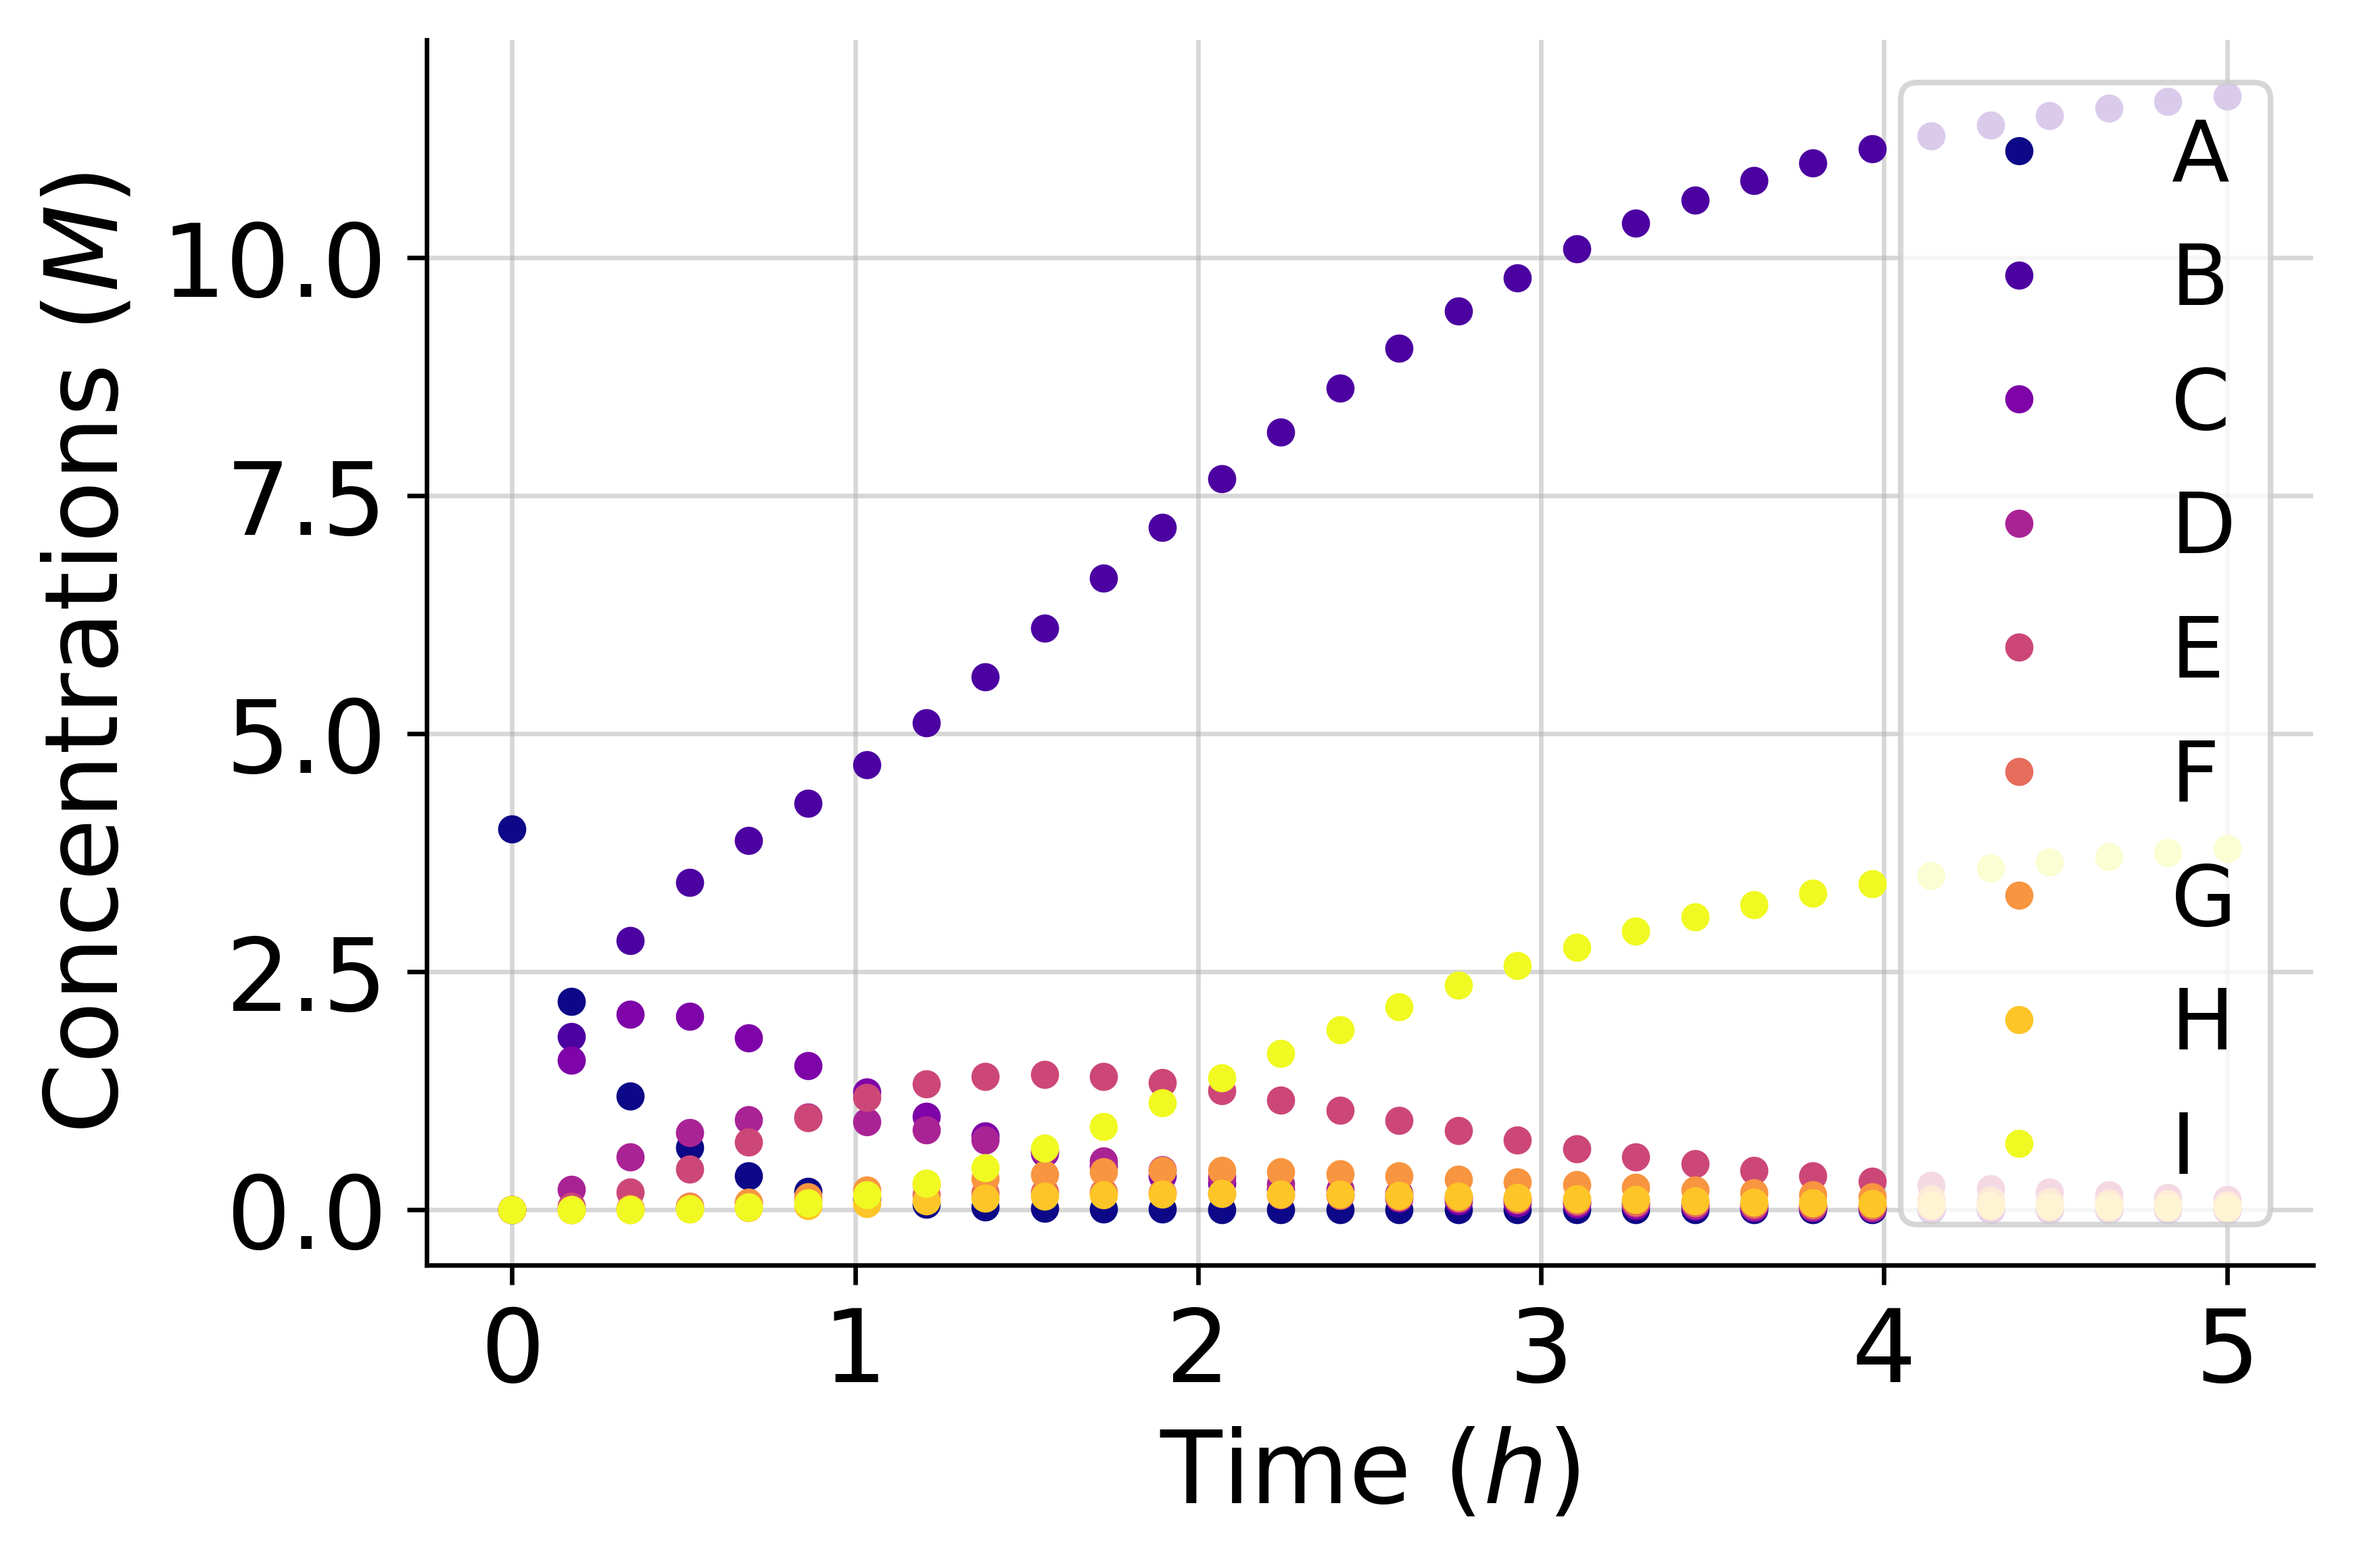
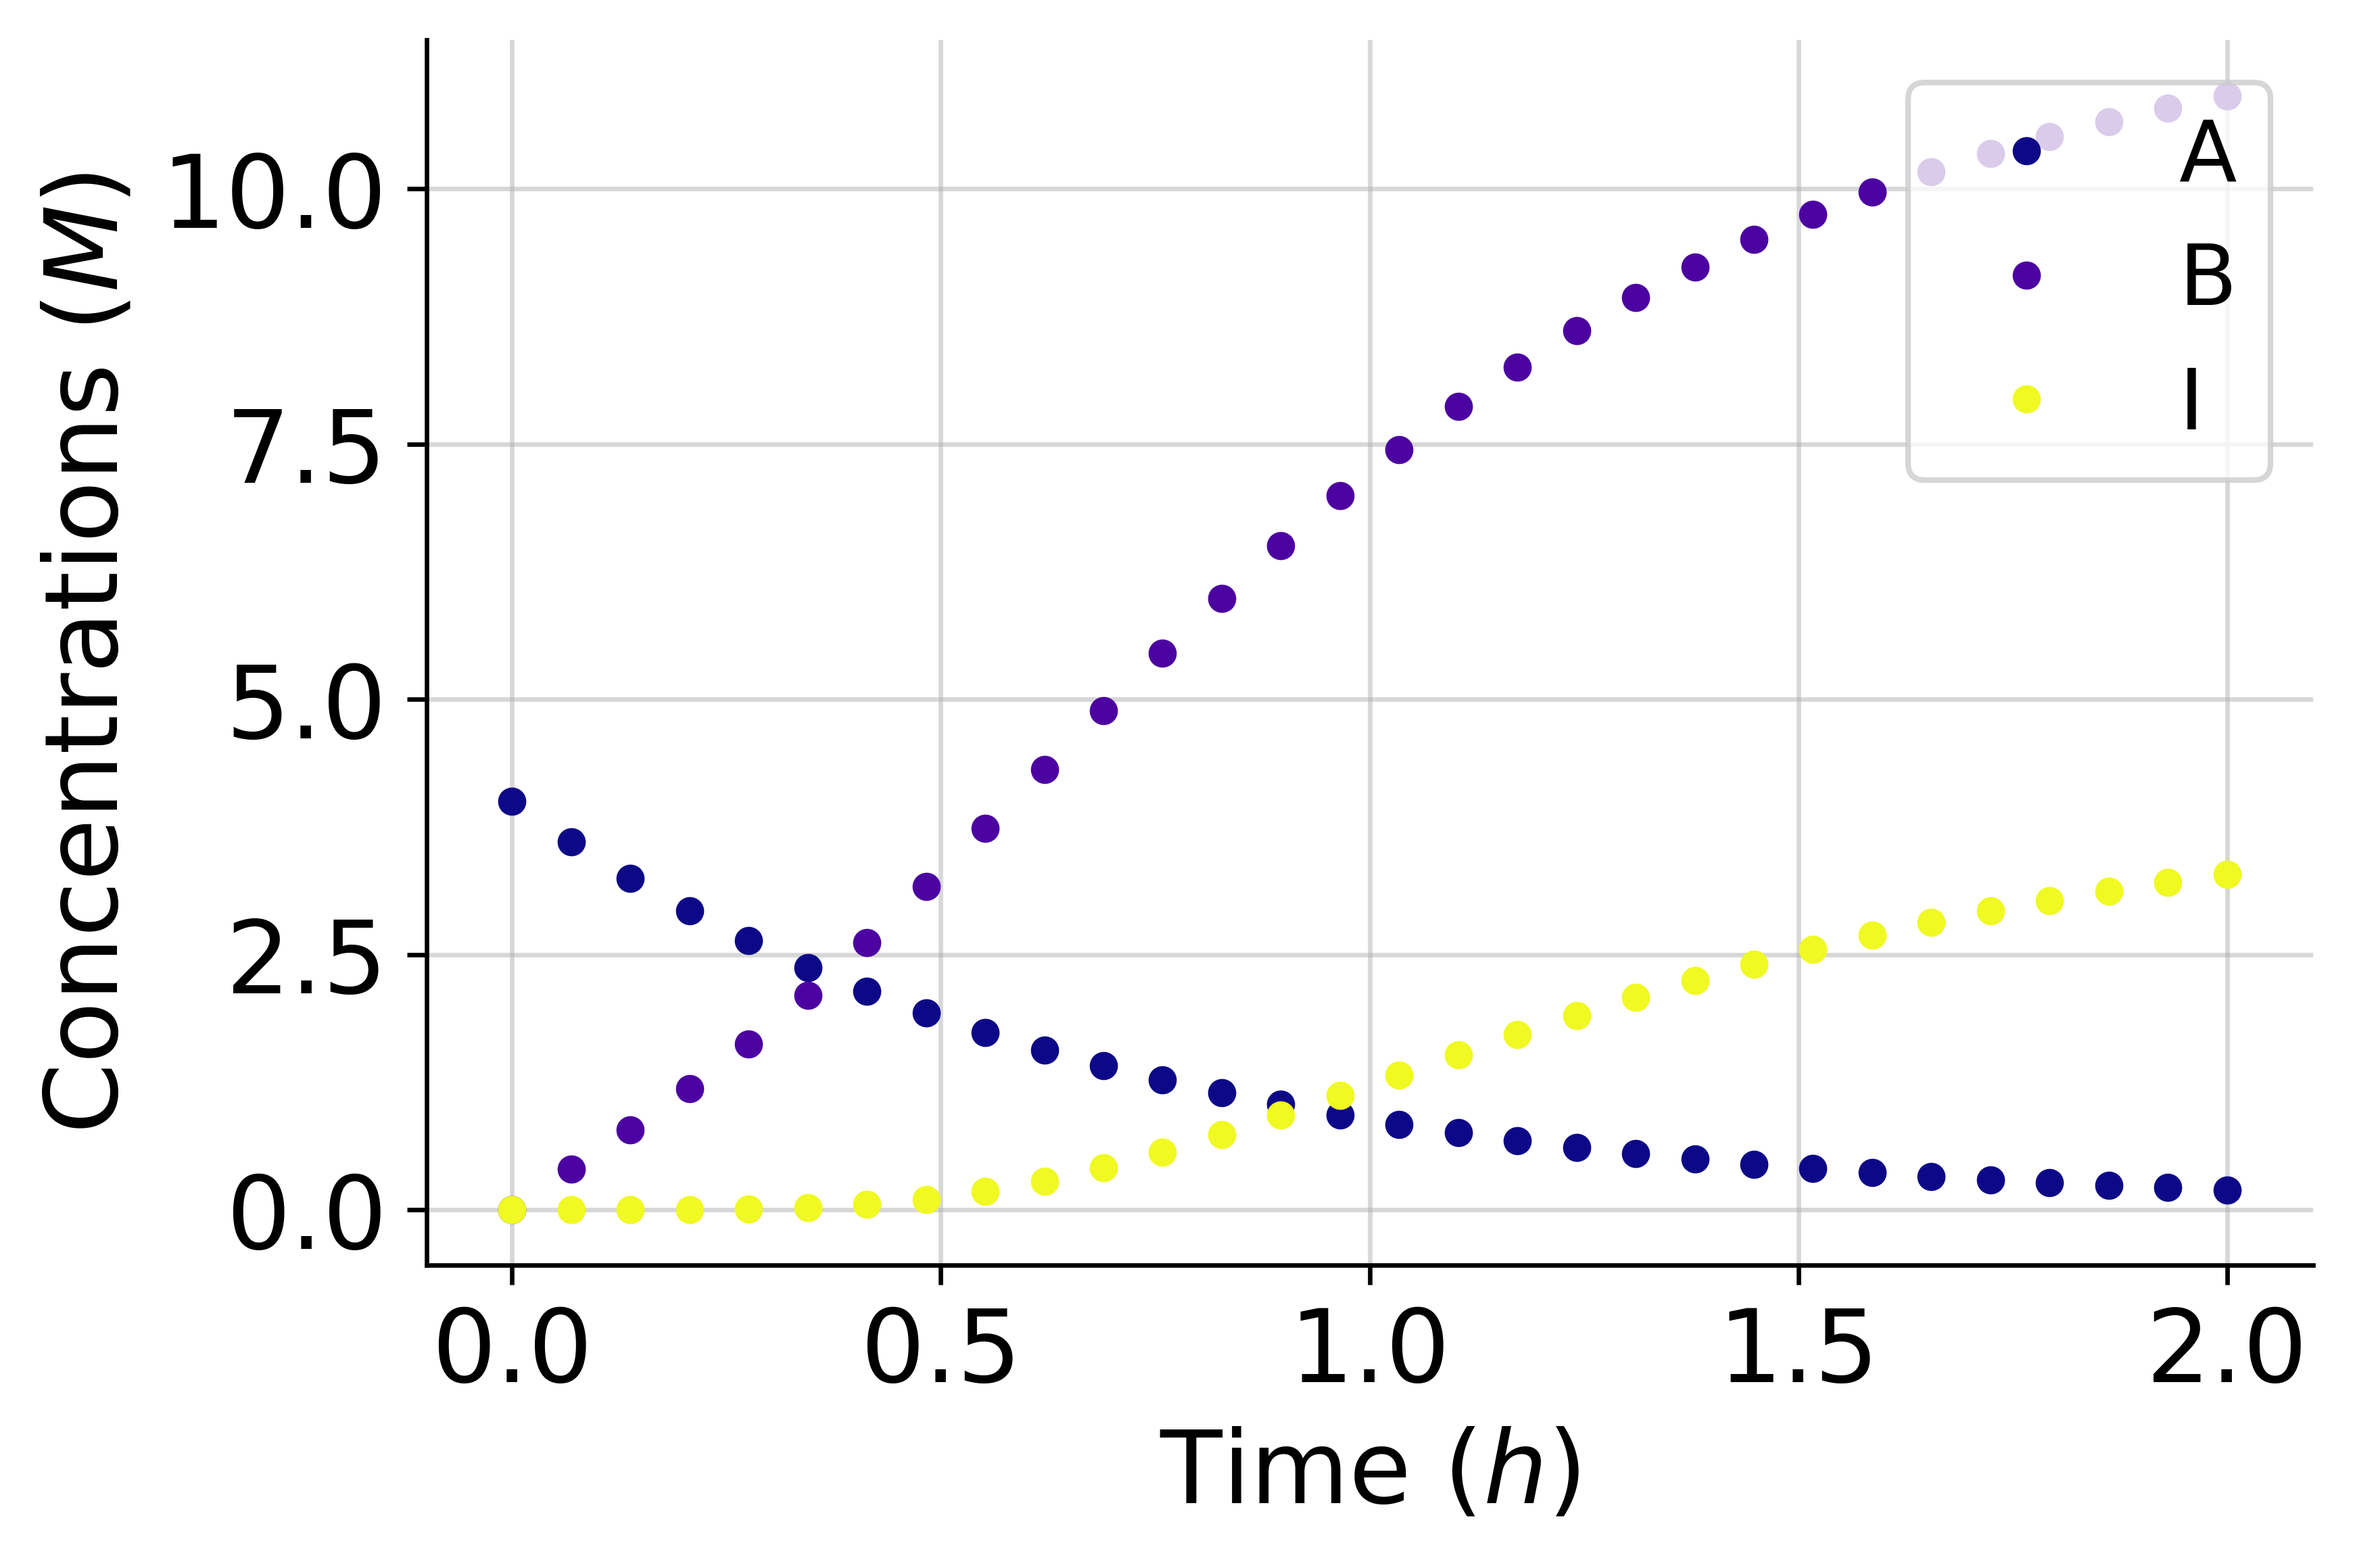
update case study

diff --git a/case_study.py b/case_study.py
@@ -42,14 +42,14 @@ initial_conditions = {
     "ic_1": np.array([4, 0, 0, 0, 0, 0, 0, 0, 0])
     }
 
-rate_constants = np.array([3.50981472, 1.57307663, 2.54620736, 1.12157299, 
-                           8.58300086, 3.68118241, 8.94969953])
+rate_constants = np.array([1.51351854, 8.25876281, 8.35924053, 9.35150102, 
+                           7.00087255, 7.6206748 , 6.49263229])
     
 num_exp = len(initial_conditions)
 num_species = len(species)
 
 timesteps = 30
-time = np.linspace(0, 5, timesteps)
+time = np.linspace(0, 2, timesteps)
 t = [0, np.max(time)]
 t_eval = list(time)
 STD = 0.0
@@ -77,7 +77,7 @@ for i in range(num_exp):
     ax.spines["top"].set_visible(False)
     ax.tick_params(axis = 'both', which = 'major', labelsize = 18)
     
-    for j in range(num_species):
+    for j in np.array([0, 1, -1]):
         y = in_silico_data["exp_" + str(i + 1)][j]
         ax.plot(time, y, marker[j], markersize = 4, label = species[j], color = color_1[j])
     
